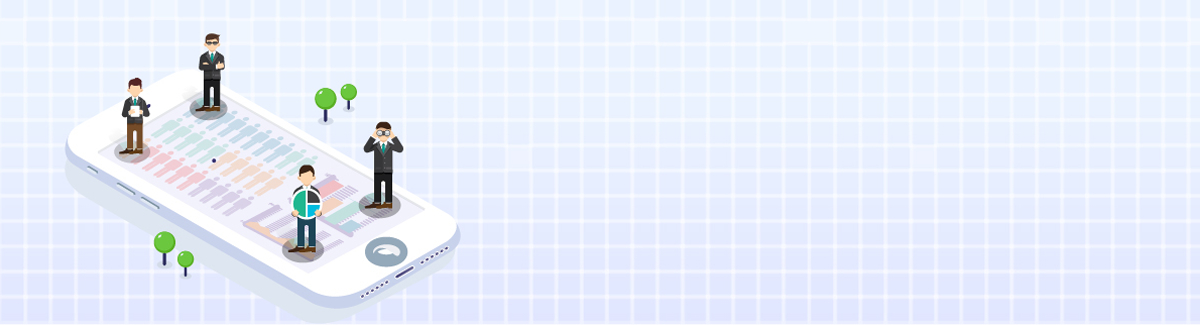
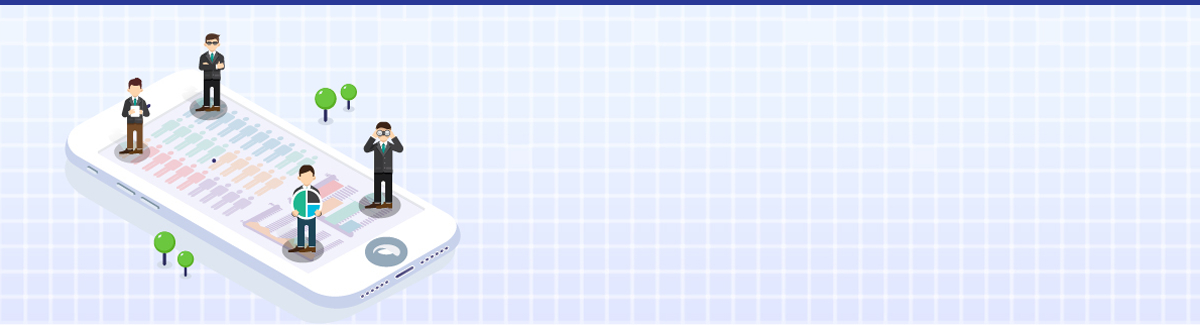
资产评估banner调整完成

Changed region(s): [[0.0, 0.0, 1.0, 0.0308]]

diff --git a/r/cms/zcpg/zcpg/css/index.css b/r/cms/zcpg/zcpg/css/index.css
@@ -72,7 +72,7 @@ img {
 .icon-magnifier{width: 20px;height: 20px;background: url("../imgs/icon-magnifier.png") 50% 50% no-repeat;}
 .icon-house{width: 18px;height: 18px;background: url("../imgs/icon-house.png") 50% 50% no-repeat;}
 .index .banner {
-    margin-top: 20px
+
 }
 
 .index .banner img {
